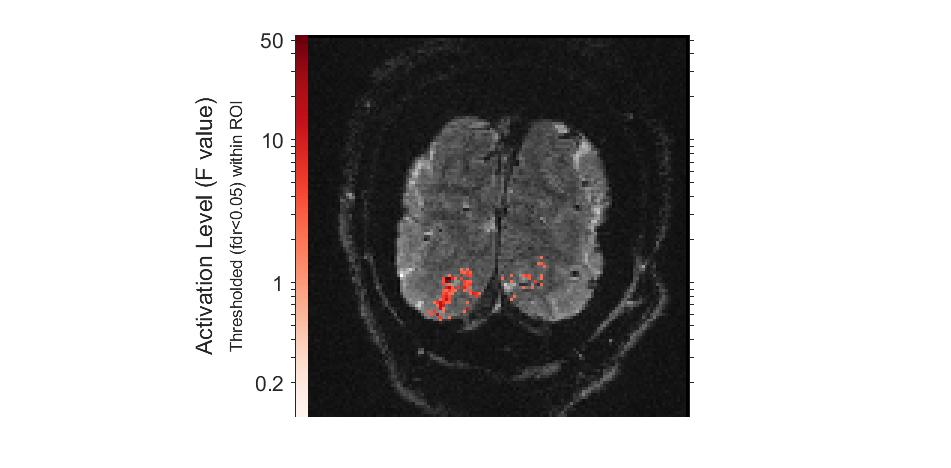
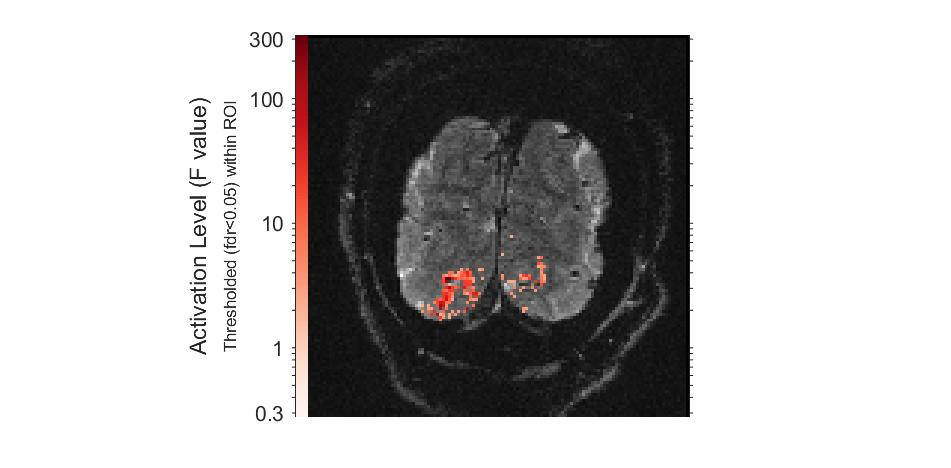
fixed fdr

diff --git a/neuroimaging/runGroupAnalysis_sin.m b/neuroimaging/runGroupAnalysis_sin.m
@@ -205,6 +205,8 @@ ax(spInd).YTickLabel = {'ori' 'plaid'};
 xlim([0 max(xData_theta(:)).*1.1])
 ax(spInd).PlotBoxAspectRatio = [1 0.2 1];
 box off
+hTxt = text(0,hb2.XData+hb2.BarWidth/2,['diff=' num2str(diff(xData_thetaMean(:,[4 3])),'%0.3fsec')],'VerticalAlignment','bottom');
+
 spInd = 2;
 axes(ax(spInd));
 hb = barh(xData_thetaMean(:,[1 2])); hold on
@@ -219,6 +221,8 @@ ax(spInd).YTickLabel = {'ori1' 'ori2'};
 xlim([0 max(xData_theta(:)).*1.1])
 ax(spInd).PlotBoxAspectRatio = [1 0.2 1];
 box off
+hTxt = text(0,hb2.XData+hb2.BarWidth/2,['diff=' num2str(diff(xData_thetaMean(:,[1 2])),'%0.3fsec')],'VerticalAlignment','bottom');
+
 
 disp('***')
 disp(['delay (plaid-ori) = ' num2str(diff(xData_thetaMean(:,[4 3])),'%0.3fs')])

diff --git a/neuroimaging/HRdelay.m b/neuroimaging/HRdelay.m
@@ -3,7 +3,7 @@ addpath(genpath(fullfile(pwd,'matlabFun')));
 
 runFit
 
-fitType = 'mixed';
+fitType = 'fixed';
 threshType = 'fdr';
 veinPerc = 20;
 figOption.save = 1;
